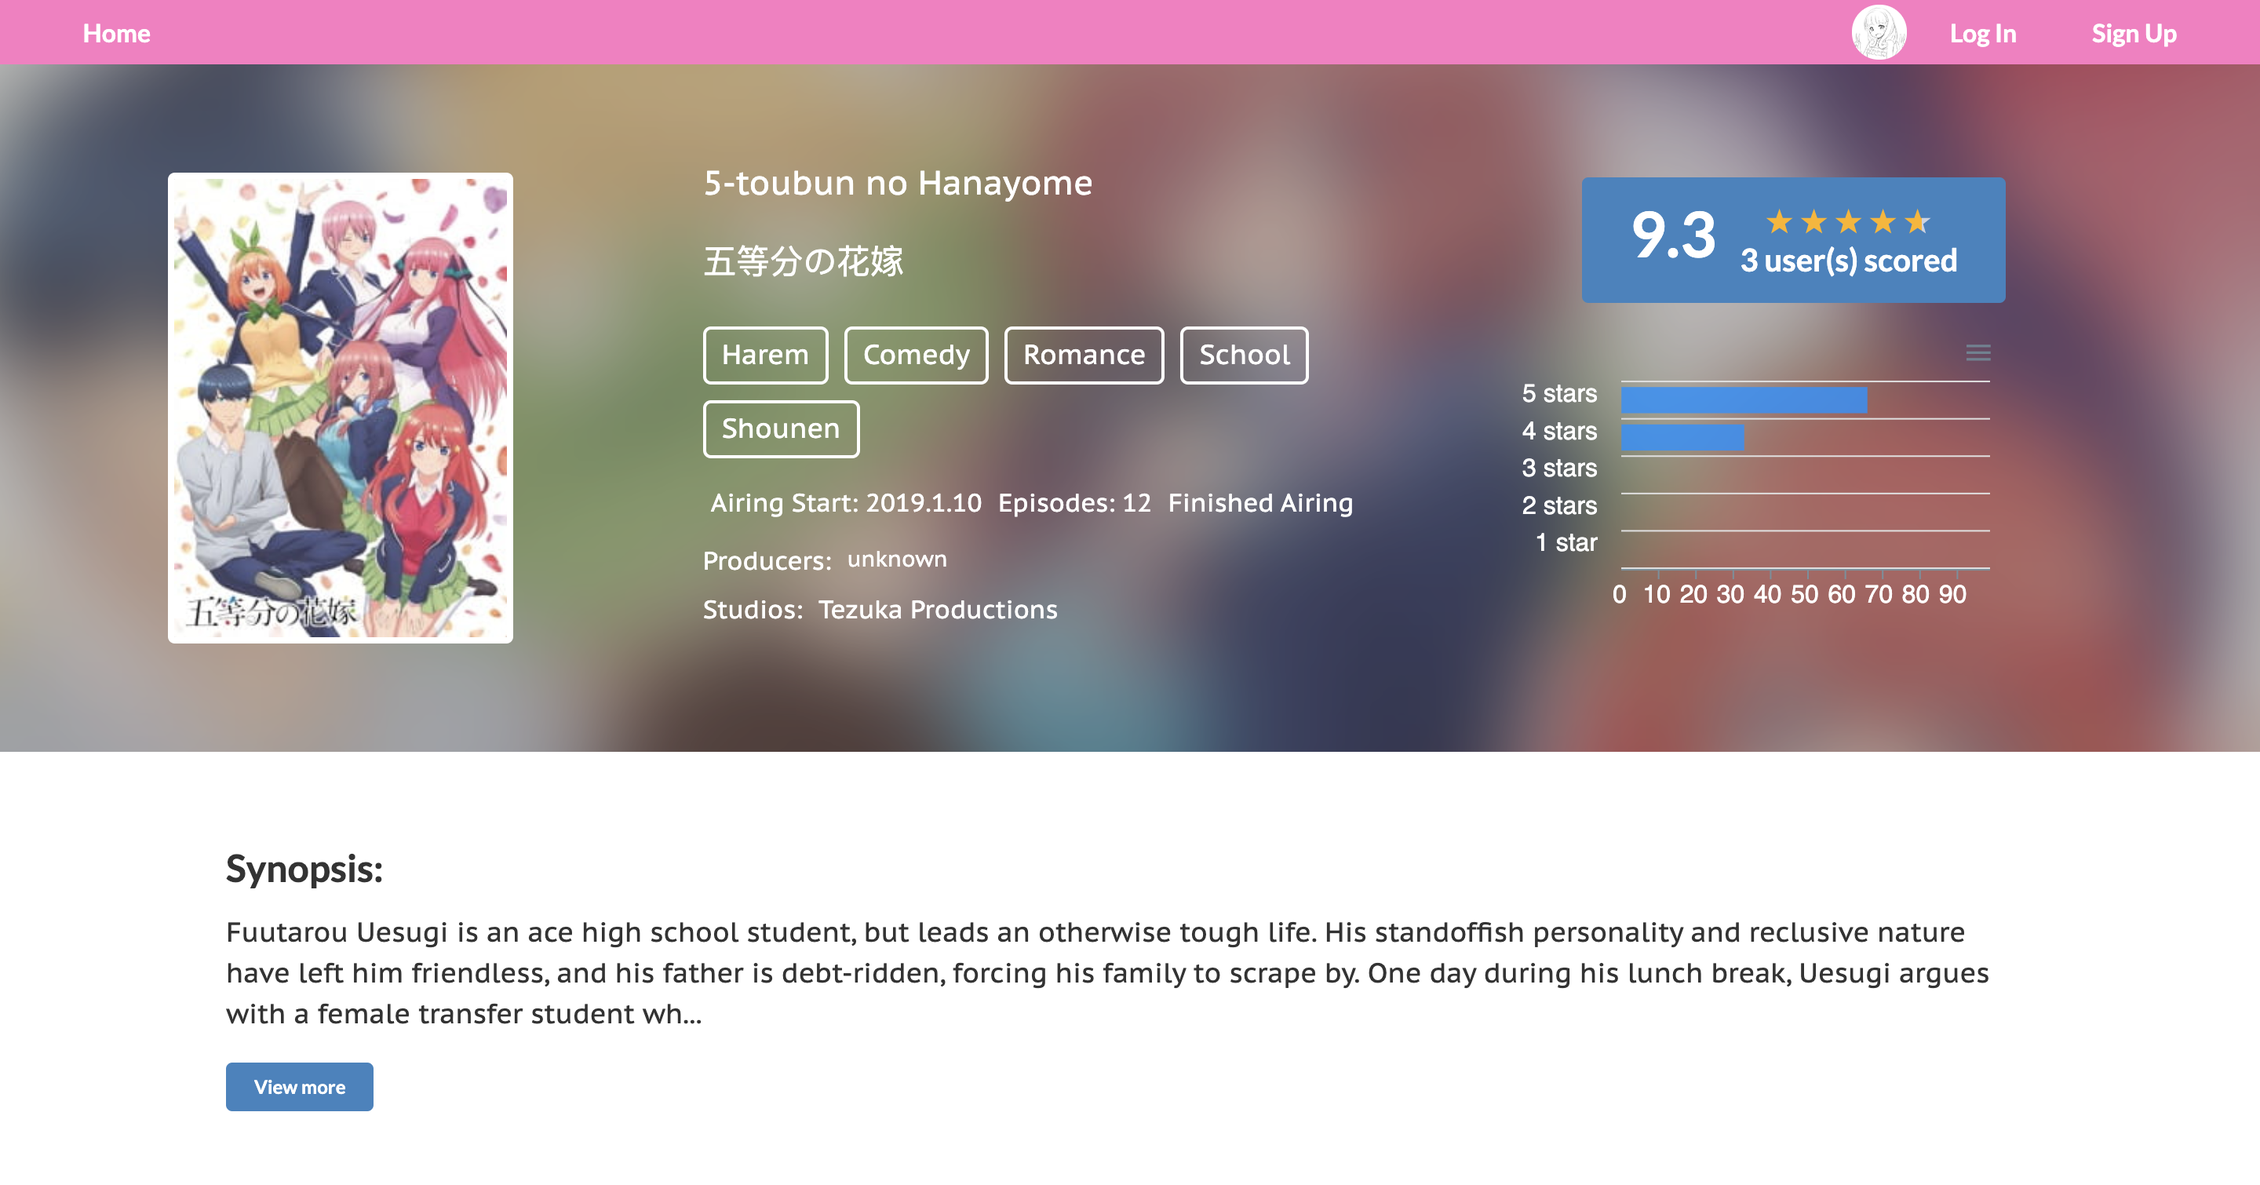
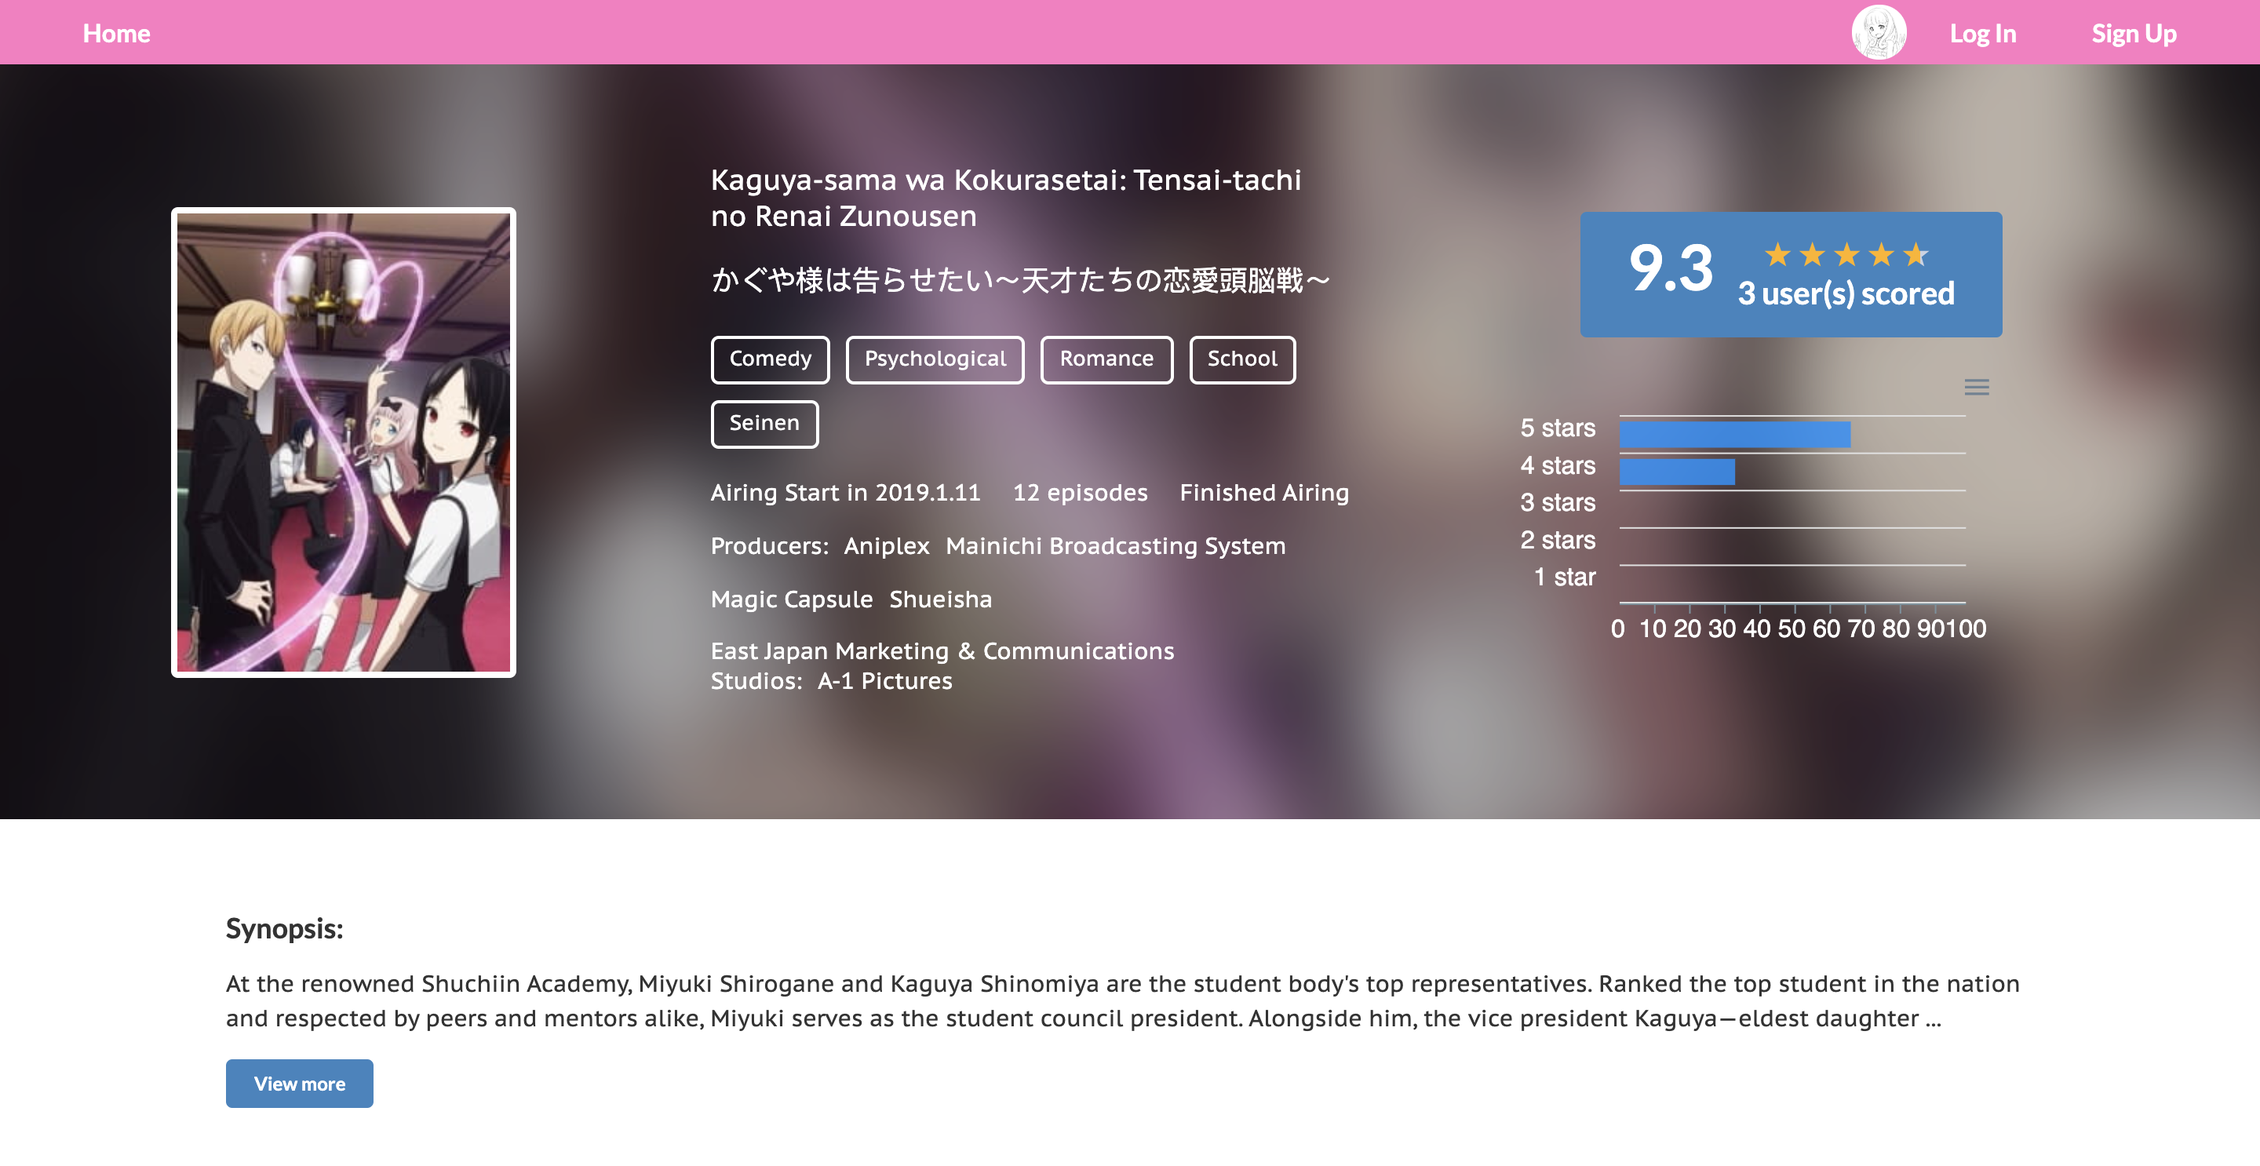
improve web view and fix upcoming bangumi view more bug

diff --git a/client/src/Components/DetailPage/Recommend/recommend.jsx b/client/src/Components/DetailPage/Recommend/recommend.jsx
@@ -110,7 +110,7 @@ class Recommend extends Component {
         if (this.state.bangumiList.length === 0) {
             return (
                 <div>
-                    <h2 style = {{marginLeft: '10%'}}>Recommendation</h2>
+                    <h3 style = {{marginLeft: '10%'}}>Recommendation</h3>
                     <div className = {noRecommendStyle}>
                         <p>No recommendation yet</p>
                     </div>
@@ -124,12 +124,12 @@ class Recommend extends Component {
         }
         let labelStyle = {
             background: 'white',
-            width: '190px',
+            width: '165px',
             height: 'auto',
         }
         let imageStyle = {
-            width: '160px',
-            height: '210px',
+            width: '130px',
+            height: '165px',
         }
         let bangumiList = this.state.bangumiList.map(bangumi => {
             return (
@@ -137,7 +137,8 @@ class Recommend extends Component {
                     <Image className = {hoverPart} onClick = {this.toDetailPage.bind(this, bangumi)} 
                     style = {imageStyle} src = {bangumi.image_url} rounded/>
                     <div className = {titleStyle}>
-                        <p className = {bangumiTitle} onClick = {this.toDetailPage.bind(this, bangumi)}>{bangumi.title}</p>
+                        <span className = {bangumiTitle} onClick = {this.toDetailPage.bind(this, bangumi)}>{bangumi.title}</span> 
+                        <br/>
                         <span className = {scoreStyle}>total score: {bangumi.score}</span>
                     </div>
                 </Label>
@@ -145,7 +146,7 @@ class Recommend extends Component {
         })
         return(
             <div className = {recommendStyle}>
-                <h2>Recommendation</h2>
+                <h3>Recommendation</h3>
                 <div className = {bangumiStyle}>
                     {bangumiList}
                 </div>

diff --git a/client/src/Components/User/FollowingList/Following/following.jsx b/client/src/Components/User/FollowingList/Following/following.jsx
@@ -70,7 +70,7 @@ class Following extends Component {
                     <Image className = {hoverPart} onClick = {this.toProfile}
                     style = {{transform: 'scale(2)', margin: '40px 3% 40px 8%'}} 
                     avatar src = {this.props.following.avatar}/>
-                    <List.Content style = {{fontSize: '14pt'}}> 
+                    <List.Content style = {{fontSize: '11.5pt'}}> 
                         <List.Header>    
                             {this.props.following.username}
                         </List.Header>
@@ -90,7 +90,7 @@ class Following extends Component {
                     <Image className = {hoverPart}  onClick = {this.toProfile}
                     style = {{transform: 'scale(2)', margin: '40px 3% 40px 8%'}} 
                     avatar src = {this.props.following.avatar}/>
-                    <List.Content style = {{fontSize: '14pt'}}> 
+                    <List.Content style = {{fontSize: '11.5pt'}}> 
                         <List.Header>    
                             {this.props.following.username}
                         </List.Header>
@@ -108,8 +108,8 @@ class Following extends Component {
                 <Image className = {hoverPart}  onClick = {this.toProfile}
                 style = {{transform: 'scale(2)', margin: '40px 3% 40px 8%'}} 
                 avatar src = {this.props.following.avatar}/>
-                <List.Content style = {{fontSize: '14pt'}}> 
-                    <List.Header>    
+                <List.Content style = {{fontSize: '11.5pt'}}> 
+                    <List.Header >    
                         {this.props.following.username}
                     </List.Header>
                 </List.Content>

diff --git a/client/src/Components/User/FollowerList/Follower/follower.jsx b/client/src/Components/User/FollowerList/Follower/follower.jsx
@@ -79,7 +79,7 @@ class Follower extends Component {
                     <Image className = {hoverPart} onClick = {this.toProfile}
                     style = {{transform: 'scale(2)', margin: '40px 3% 40px 8%'}} 
                     avatar src = {this.props.follower.avatar}/>
-                    <List.Content style = {{fontSize: '14pt'}}> 
+                    <List.Content style = {{fontSize: '11.5.5pt'}}> 
                         <List.Header>    
                             {this.props.follower.username}
                         </List.Header>
@@ -100,7 +100,7 @@ class Follower extends Component {
                     <Image className = {hoverPart} onClick = {this.toProfile}
                     style = {{transform: 'scale(2)', margin: '40px 3% 40px 8%'}} 
                     avatar src = {this.props.follower.avatar}/>
-                    <List.Content style = {{fontSize: '14pt'}}> 
+                    <List.Content style = {{fontSize: '11.5.5pt'}}> 
                         <List.Header>    
                             {this.props.follower.username}
                         </List.Header>
@@ -119,7 +119,7 @@ class Follower extends Component {
                 <Image className = {hoverPart} onClick = {this.toProfile}
                 style = {{transform: 'scale(2)', margin: '40px 3% 40px 8%'}} 
                 avatar src = {this.props.follower.avatar}/>
-                <List.Content style = {{fontSize: '14pt'}}> 
+                <List.Content style = {{fontSize: '11.5.5pt'}}> 
                     <List.Header>    
                         {this.props.follower.username}
                     </List.Header>

diff --git a/client/src/Components/User/UserProfile/FollowingSection/followingSection.jsx b/client/src/Components/User/UserProfile/FollowingSection/followingSection.jsx
@@ -86,14 +86,14 @@ class FollowingSection extends Component {
         if (this.state.following === 'undefined') {
             return (
                 <Label style = {labelStyle}>
-                    <h2 style = {{color: 'rgba(100, 100, 100, 0.6)'}}>Loading...</h2>
+                    <h3 style = {{color: 'rgba(100, 100, 100, 0.6)'}}>Loading...</h3>
                 </Label>
             )
         }
         if(this.state.following.length === 0) {
             return (
                 <Label style = {labelStyle}>
-                    <h2 style = {{color: 'rgba(100, 100, 100, 0.6)'}}>No following</h2>
+                    <h3 style = {{color: 'rgba(100, 100, 100, 0.6)'}}>No following</h3>
                 </Label>
             )
         }
@@ -101,6 +101,8 @@ class FollowingSection extends Component {
             background: 'white',
             marginTop: '10px',
             textAlign: 'center',
+            marginLeft: '10px',
+            marginRight: '10px',
         }
         let followingList = this.state.following.map(user => {
             return(
@@ -108,7 +110,7 @@ class FollowingSection extends Component {
                     <Image className = {hoverPart} onClick = {this.toProfile.bind(this, user)}
                     style = {{transform: 'scale(2)', marginRight: '10px'}} 
                     avatar src = {user.avatar}></Image>
-                    <h3> {user.username} </h3>
+                    <h5> {user.username} </h5>
                 </Label>
             )
         })

diff --git a/client/src/Components/User/UserProfile/FollowerSection/followerSection.jsx b/client/src/Components/User/UserProfile/FollowerSection/followerSection.jsx
@@ -87,14 +87,14 @@ class FollowerSection extends Component {
         if (this.state.follower === 'undefined') {
             return (
                 <Label style = {labelStyle}>
-                    <h2 style = {{color: 'rgba(100, 100, 100, 0.6)'}}>Loading...</h2>
+                    <h3 style = {{color: 'rgba(100, 100, 100, 0.6)'}}>Loading...</h3>
                 </Label>
             )
         }
         if(this.state.follower.length === 0) {
             return (
                 <Label style = {labelStyle}>
-                    <h2 style = {{color: 'rgba(100, 100, 100, 0.6)'}}>No follower</h2>
+                    <h3 style = {{color: 'rgba(100, 100, 100, 0.6)'}}>No follower</h3>
                 </Label>
             )
         }
@@ -102,6 +102,8 @@ class FollowerSection extends Component {
             background: 'white',
             marginTop: '10px',
             textAlign: 'center',
+            marginLeft: '10px',
+            marginRight: '10px',
         }
         let followerList = this.state.follower.map(user => {
             return(
@@ -109,7 +111,7 @@ class FollowerSection extends Component {
                     <Image className = {hoverPart} onClick = {this.toProfile.bind(this, user)}
                     style = {{transform: 'scale(2)', marginRight: '10px'}} 
                     avatar src = {user.avatar}></Image>
-                    <h3> {user.username} </h3>
+                    <h5> {user.username} </h5>
                 </Label>
             )
         })

diff --git a/client/src/Components/User/Bangumi/bangumi.jsx b/client/src/Components/User/Bangumi/bangumi.jsx
@@ -150,7 +150,7 @@ class Bangumi extends Component {
         }
         let labelStyle = {
             background: 'white',
-            width: '320px',
+            width: '340px',
             height: 'auto',
             display: 'flex',
             marginTop: '20px',
@@ -169,7 +169,7 @@ class Bangumi extends Component {
                     <div className = {textSection}>
                         <h3 className = {bangumiTitle} onClick = {this.toDetail.bind(this, bangumi)}>{bangumi.title}</h3>
                         <NoneditStarRating average = {bangumi.score/2}/>
-                        <p>{bangumi.synopsis.slice(0, 50) + '...'}</p>
+                        <p>{bangumi.synopsis.slice(0, 70) + '...'}</p>
                     </div>
                 </Label>
             )
@@ -206,7 +206,7 @@ class Bangumi extends Component {
                 <Subnavibar user = {this.props.user} current = 'bangumi'/>
                 <Label style = {{background: 'white',  display: 'block', margin: '10px auto',
                 width: '80%', height: 'auto'}}>
-                    <h2 className = {title}>Scored Bangumi</h2>
+                    <h3 className = {title}>Scored Bangumi</h3>
                     <div className = {bangumiSection}>
                         {bangumiList}
                     </div>
@@ -228,7 +228,6 @@ class Bangumi extends Component {
         )
     }
 }
-
 
 const mapStateToProps = state => {
     return {

diff --git a/client/src/Components/DetailPage/Comments/Comment/comment.jsx b/client/src/Components/DetailPage/Comments/Comment/comment.jsx
@@ -131,7 +131,7 @@ class Comment extends Component {
                         <List.Content style = {{'margin-left': '55px'}}>
                             <List.Header style = {{'font-size': '10pt'}}>
                                 <Image onClick = {this.toProfile.bind(this, reply.user_id)}
-                                className = {replyAvatarStyle} style = {{'margin-right': '18px'}} avatar src = {avatar}/>
+                                className = {replyAvatarStyle} style = {{'margin-right': '10px'}} avatar src = {avatar}/>
                                 {reply.username} 
                                 <span style = {atstyle}>@ {reply.repliedUsername}</span>
                             </List.Header>
@@ -180,7 +180,7 @@ class Comment extends Component {
                         <p style = {{'fontSize': '9pt'}}>
                             {date.getFullYear()}-{date.getMonth()+1}-{date.getDate()}
                             <span style = {{'padding-left': '5px'}}>{date.getHours()}:{minute}</span>
-                            <span style = {{'margin-left': '10px'}}>{replyList.length} reply/replies</span>
+                            <span style = {{'margin-left': '10px'}}>{replyList.length} replies</span>
                         </p>
                         <List.Description style = {{'font-size': '11pt', 'margin-top': '20px'}}>
                             {this.props.comment.commentContent}

diff --git a/client/src/Components/DetailPage/Information/information.jsx b/client/src/Components/DetailPage/Information/information.jsx
@@ -38,7 +38,7 @@ class Information extends Component {
                 }
             })
         if (producers.length === 0) {
-            producers = 'unknown';
+            producers = <p>unknown</p>;
         }
         let genres = this.props.bangumi.genres.map(genre => {
             if (genre.name) {
@@ -50,7 +50,7 @@ class Information extends Component {
             }
         })
         let studios = <p>unknown</p>
-        if (this.props.bangumi.studios) {
+        if (this.props.bangumi.studios && this.props.bangumi.studios.length > 0) {
             studios = this.props.bangumi.studios.map(studio => {
                 return (
                     <p>{studio.name}</p>
@@ -93,8 +93,8 @@ class Information extends Component {
                         <p className = {titleStyle}> {this.props.bangumi.title_japanese}</p>
                         <p className = {genreListStyle}>{genres}</p>
                         <div className = {episodeStyle}>
-                            <p>Airing Start: {year}.{month}.{day}</p>
-                            <p>Episodes: {episodes}</p>
+                            <p style={{paddingRight: '20px'}}>Airing Start in {year}.{month}.{day}</p> 
+                            <p style={{paddingRight: '20px'}}>{episodes} episodes</p>
                             <p>{airing_status}</p>
                         </div>
                         <div className = {producerStyle}>

diff --git a/client/src/Components/User/FollowingList/followingList.jsx b/client/src/Components/User/FollowingList/followingList.jsx
@@ -97,7 +97,7 @@ class FollowingList extends Component {
                     <AvatarSection/>
                     <Subnavibar user = {this.props.user} current = 'following'/>
                     <Label style = {labelStyle}>
-                        <h2 style = {{color: 'rgba(100, 100, 100, 0.6)'}}>No following</h2>
+                        <h3 style = {{color: 'rgba(100, 100, 100, 0.6)'}}>No following</h3>
                     </Label>
                 </div>
             )
@@ -114,7 +114,7 @@ class FollowingList extends Component {
                 <Subnavibar user = {this.props.user} current = 'following'/>
                 <List style = {{width: '80%', height: 'auto', background: 'white', display: 'block',
                 margin: '20px auto', paddingBottom: '5px'}}>
-                    <h2 style = {{marginLeft: '2%', paddingTop: '2%'}}>Following</h2>
+                    <h3 style = {{marginLeft: '2%', paddingTop: '2%'}}>Following</h3>
                     <Divider style = {{margin: '0 5% 0 5%'}}/>
                     {followinglist}
                 </List>

diff --git a/client/src/Components/DetailPage/Comments/commentlist.jsx b/client/src/Components/DetailPage/Comments/commentlist.jsx
@@ -174,7 +174,7 @@ class Commentlist extends Component {
             return(
                 <div>
                     <div className = {commentStyle}>
-                        <h2>Be the first to comment</h2>
+                        <h3>Be the first to comment</h3>
                         <CommentBox bangumi = {this.props.bangumi} currentUser = {this.props.currentUser}
                         newComment = {this.state.newComment} inputComment = {this.inputComment} 
                         submitComment = {this.submitComment} cancelComment = {this.cancelComment}/>
@@ -230,7 +230,7 @@ class Commentlist extends Component {
         return(
             <div>
                 <div className = {commentStyle}>
-                    <h2>{this.state.commentNumber} comments</h2>
+                    <h3>{this.state.commentNumber} comments</h3>
                     <CommentBox 
                     bangumi = {this.props.bangumi} currentUser = {this.props.currentUser}
                     newComment = {this.state.newComment} inputComment = {this.inputComment} 

diff --git a/client/src/Components/User/UserProfile/ScoreBangumi/scoreBangumi.jsx b/client/src/Components/User/UserProfile/ScoreBangumi/scoreBangumi.jsx
@@ -69,7 +69,7 @@ class  ScoreBangumi extends Component {
                     <div className = {textSection}>
                         <h3 className = {bangumiTitle} onClick = {this.toDetail.bind(this, bangumi)}>{bangumi.title}</h3>
                         <NoneditStarRating average = {bangumi.score/2}/>
-                        <p>{bangumi.synopsis.slice(0, 40) + '...'}</p>
+                        <p>{bangumi.synopsis.slice(0, 70) + '...'}</p>
                     </div>
                 </Label>
             )
@@ -77,7 +77,7 @@ class  ScoreBangumi extends Component {
         return (
             <Label style = {{background: 'white', position: 'relative',
             width: '57%', height: 'auto'}}>
-                <h3 className = {titleStyle}>
+                <h3 className = {titleStyle} style={{marginTop: '10px'}}>
                     Scored Bangumi 
                 </h3>
                 <div className = {bangumiSection}>

diff --git a/client/src/Components/DetailPage/Information/information.module.scss b/client/src/Components/DetailPage/Information/information.module.scss
@@ -27,7 +27,7 @@
 }
 
 .titleStyle {
-    font-size: 16pt;
+    font-size: 13.5pt;
     white-space: normal;
     width: 400px;
 }
@@ -48,18 +48,17 @@
 .genreStyle {
     border: 2px solid white;
     border-radius: 5px;
-    font-size:13pt;
+    font-size:10pt;
     padding: 5px 10px 5px 10px;
     margin: 5px 10px 5px 0px;
 }
 
 .episodeStyle {
     display: flex;
-    justify-content: space-around;
-    font-size: 12pt;
+    justify-content: flex-start;
+    font-size: 11pt;
     margin-top: 10px;
     white-space: normal;
-    width: 420px
 }
 
 .producerStyle {
@@ -69,17 +68,16 @@
     width: 410px;
     p {
         padding-right: 10px;
-        font-size: 12pt;
+        font-size: 11pt;
     }
 }
 
 .studioStyle {
-    padding-top: 10px;
     display: flex;
     white-space: normal;
     width: 400px;
     p {
         padding-right: 10px;
-        font-size: 12pt;
+        font-size: 11pt;
     }
 }
